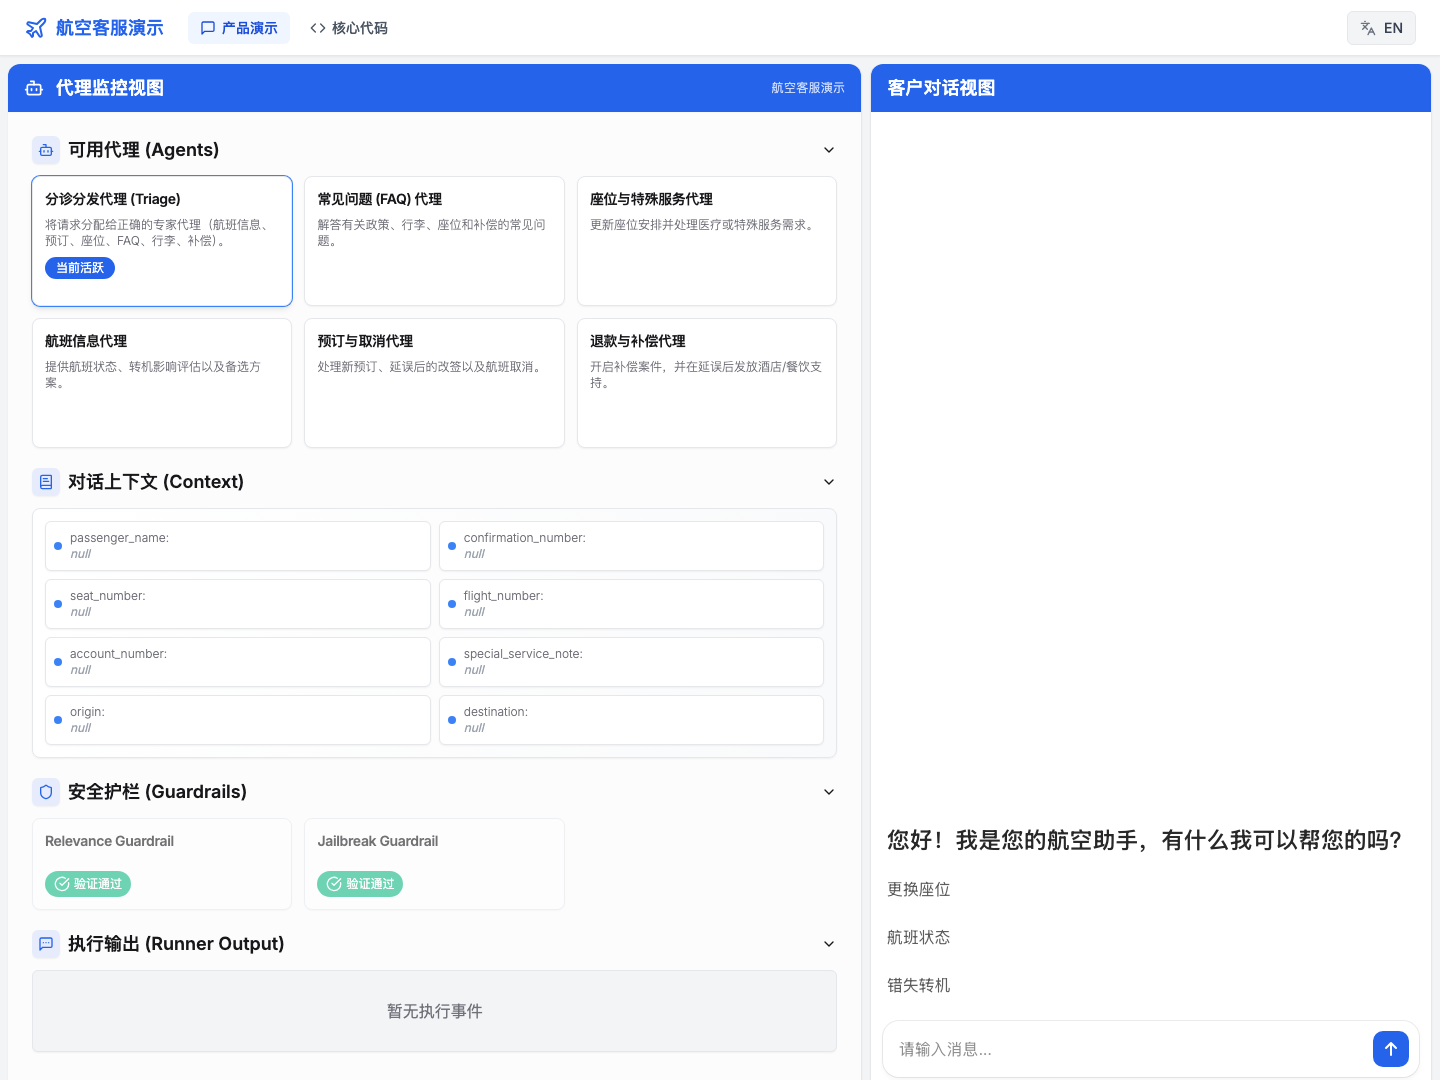
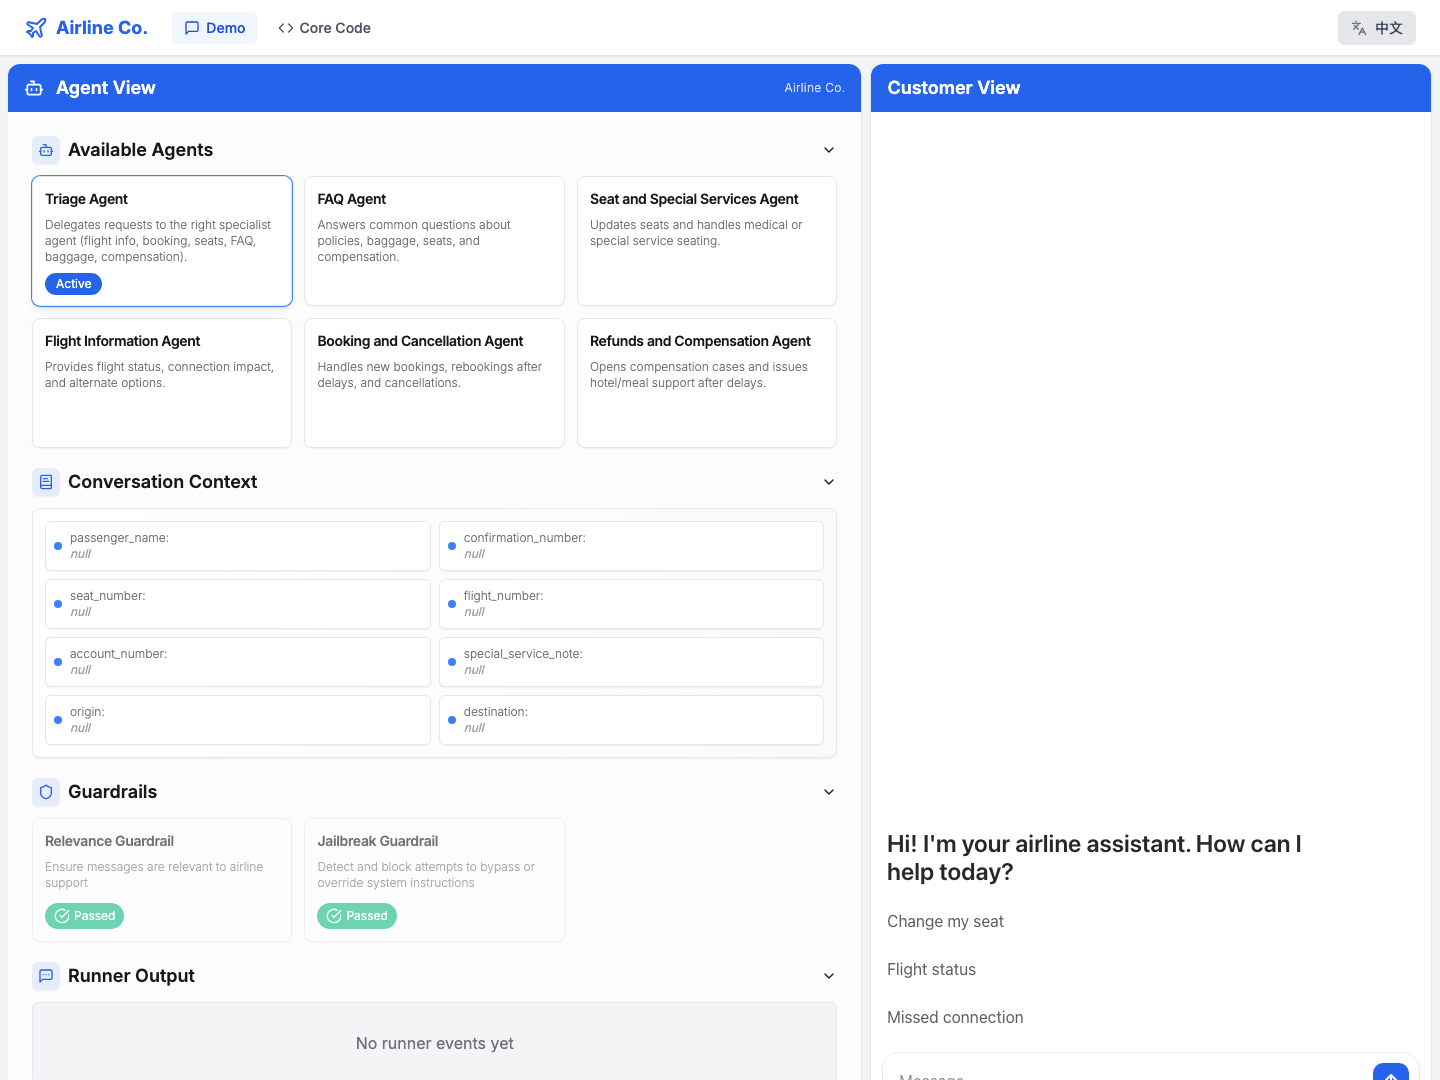
chore: force english locale for screenshots

diff --git a/screenshot.js b/screenshot.js
@@ -19,13 +19,25 @@ const path = require('path');
   
   console.log("Navigating to demo page...");
   await page.goto('http://localhost:3000/', { waitUntil: 'load' });
-  await page.waitForTimeout(5000); // Wait 5s for chat components and chatkit to initialize
+  await page.waitForTimeout(5000); 
+  
+  // Switch to English
+  console.log("Switching to English locale...");
+  try { await page.click('text=EN', { timeout: 2000 }); } catch (e) {}
+  await page.waitForTimeout(1000);
+
   await page.screenshot({ path: 'assets/demo.png', fullPage: true });
   console.log("Saved assets/demo.png");
 
   console.log("Navigating to code page...");
   await page.goto('http://localhost:3000/code', { waitUntil: 'load' });
-  await page.waitForTimeout(5000); // Wait 5s for syntax highlighting and animations
+  await page.waitForTimeout(5000); 
+  
+  // Switch to English
+  console.log("Switching to English locale...");
+  try { await page.click('text=EN', { timeout: 2000 }); } catch (e) {}
+  await page.waitForTimeout(1000);
+
   await page.screenshot({ path: 'assets/code.png', fullPage: true });
   console.log("Saved assets/code.png");
 